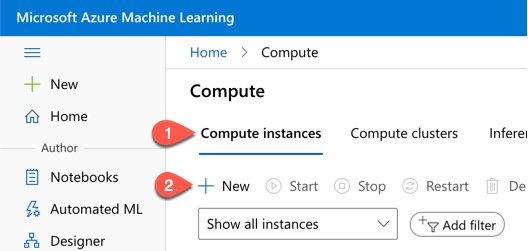
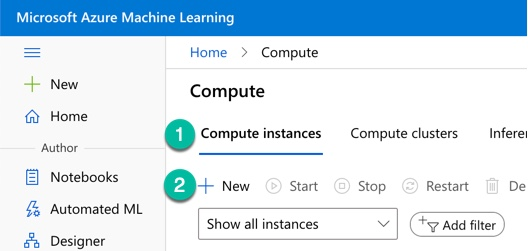
Create CI Instructions

Changed region(s): [[0.2727, 0.4741, 0.3939, 0.6135], [0.2727, 0.6693, 0.3939, 0.8088]]

diff --git a/modules/1-getting-started/01-Create-Compute-Instance.md b/modules/1-getting-started/01-Create-Compute-Instance.md
@@ -7,6 +7,18 @@ For this lab, we'll be leveraging CIs to streamline package management and provi
 The steps to create the CI are:
 1. Navigate to https://ml.azure.com and login with your Active Directory (AD) credentials.
 1. Click on 'Compute' in the left navigation pane.
-    ![Compute](../../media/1-compute-navigation.jpg)
-1. In the 'Compute Instances' tab (1), click on '+ New' (2)
-    ![New Compute Instance](../../media/2-ci-new.jpg)
+    <br>![Compute](../../media/1-compute-navigation.jpg)
+1. In the 'Compute Instances' tab (Step 1), click on 'New' (Step 2)
+    <br>![New Compute Instance](../../media/2-ci-new.jpg)
+1. Select a Virtual Machine Size and then click 'Next'. 
+    - For this training, the 'Standard_DS3_v2' should be sufficient.
+    <br>![VM Size](../../media/3-vm-size.jpg)
+1. Enter a name for your CI and click "Create"
+    - The name must:
+        - consist of upper and lower case letters, digits, and the - character. 
+        - be between 3-24 characters long
+        - be unique for the Azure Region (across all customers)
+        - must not end with '-' or contain '-' followed by numbers
+    <br>![Compute Name](../../media/4-compute-name.jpg)
+1. After a few minutes, you should see your CI in the 'Running' state. If you don't see it, change the filter selector to "Instances I can use".
+    <br>![Running CI](../../media/5-running-ci.jpg)
